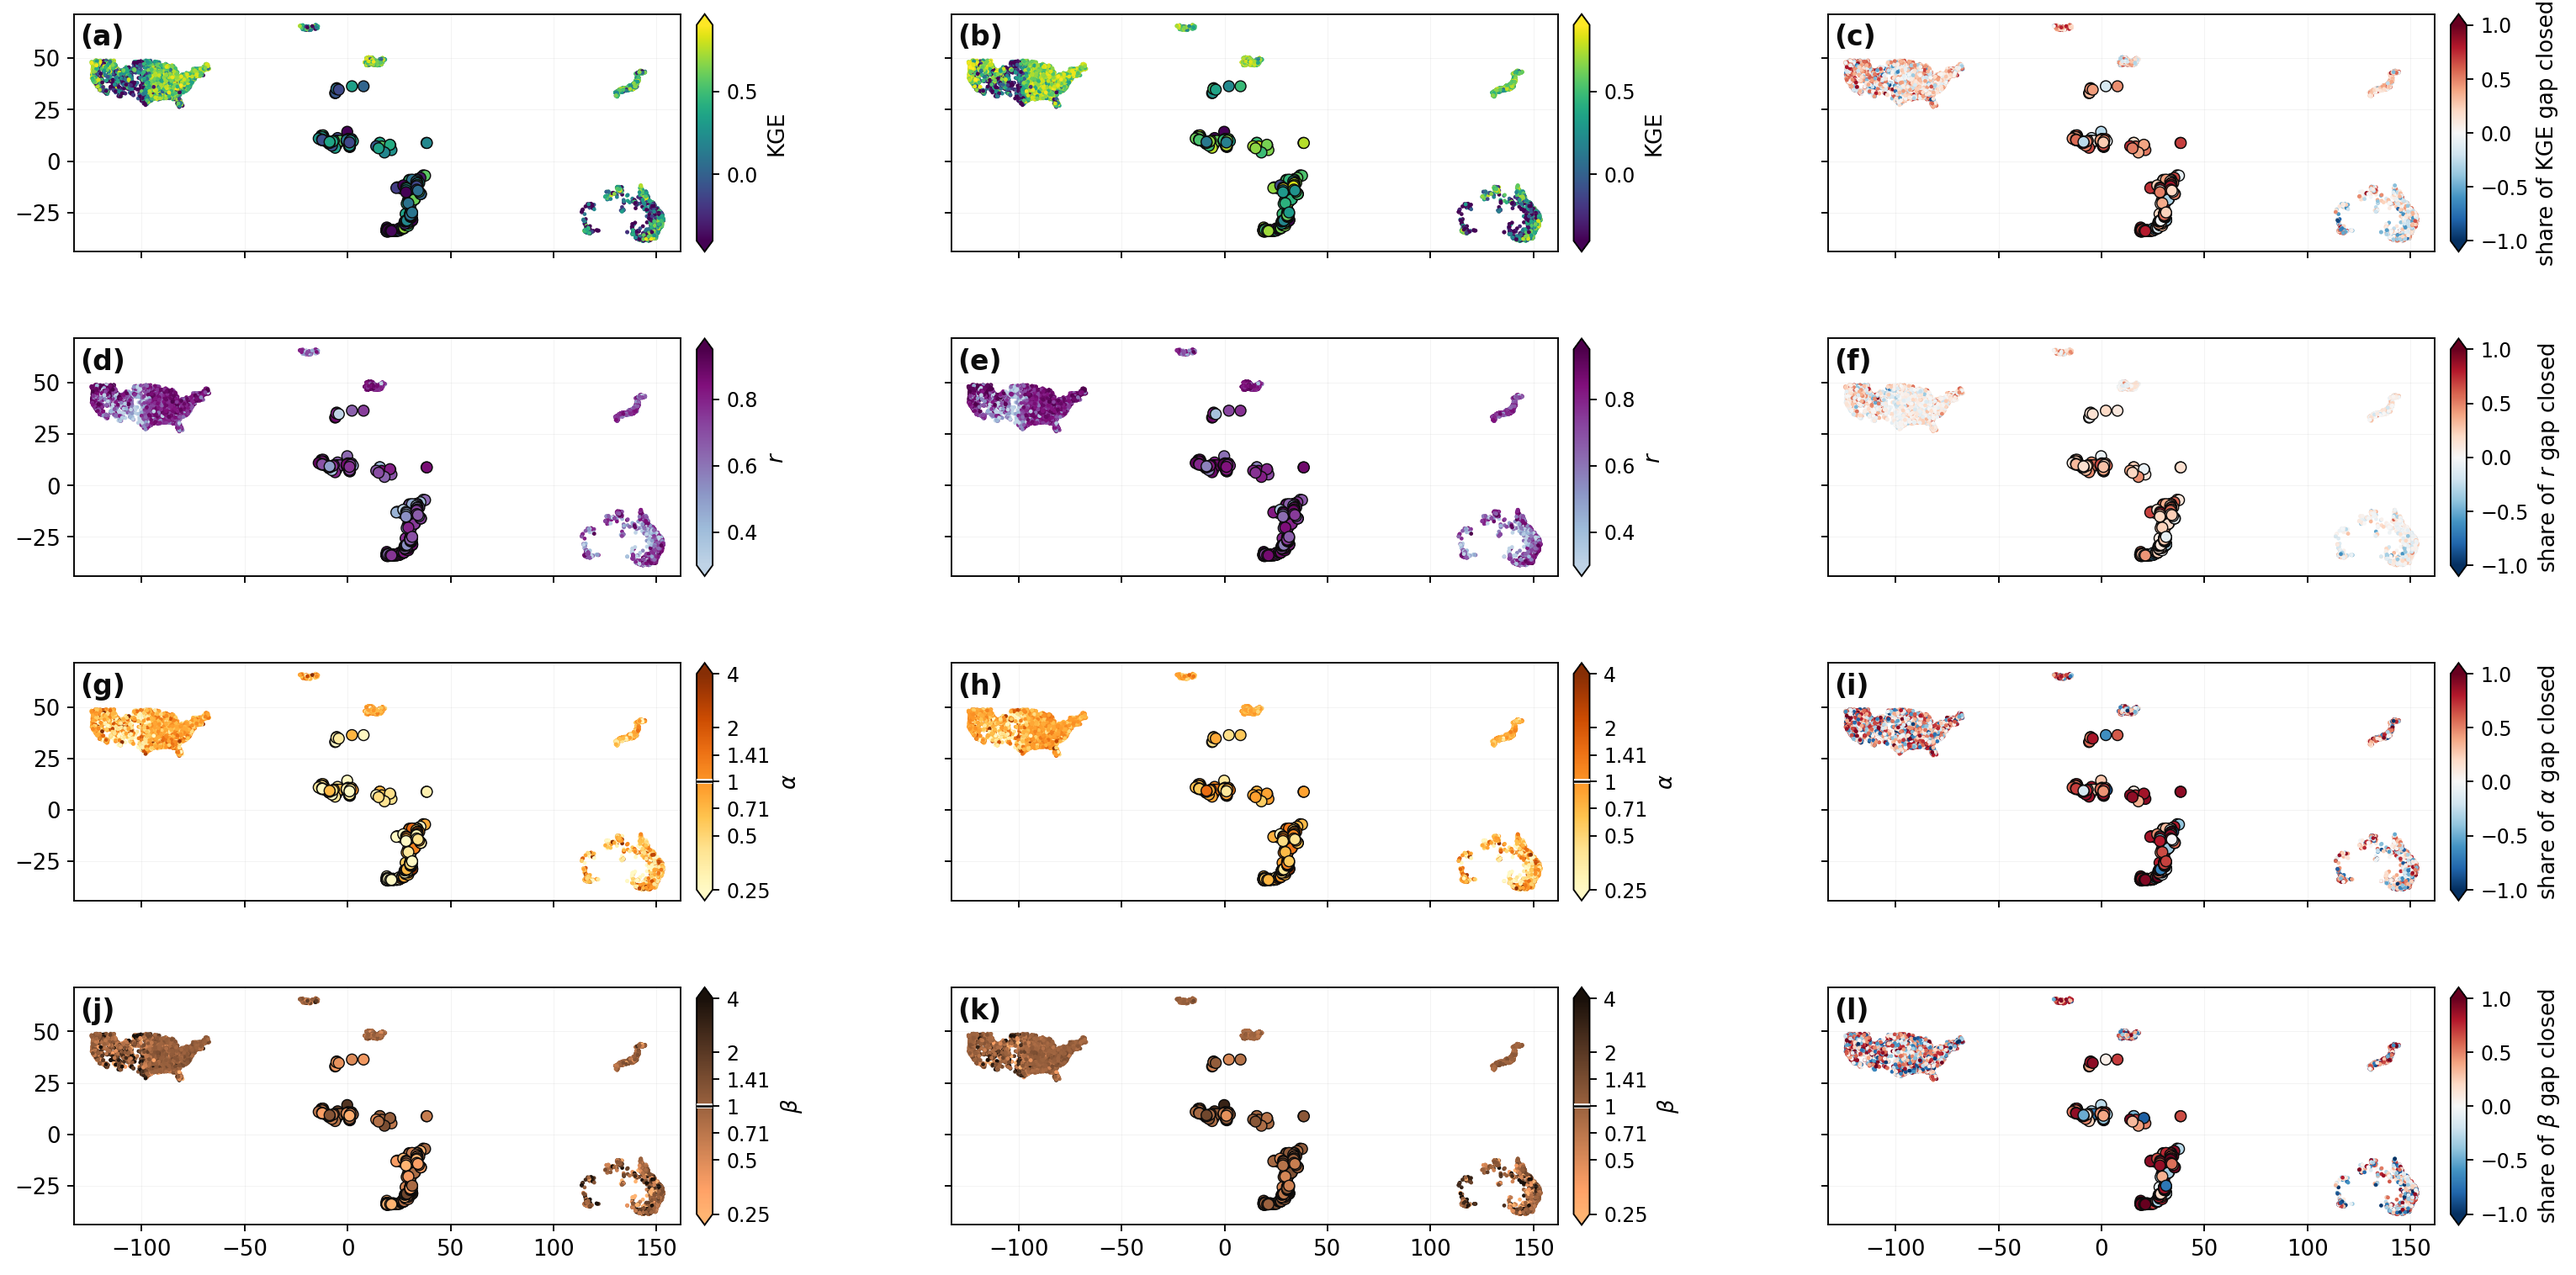
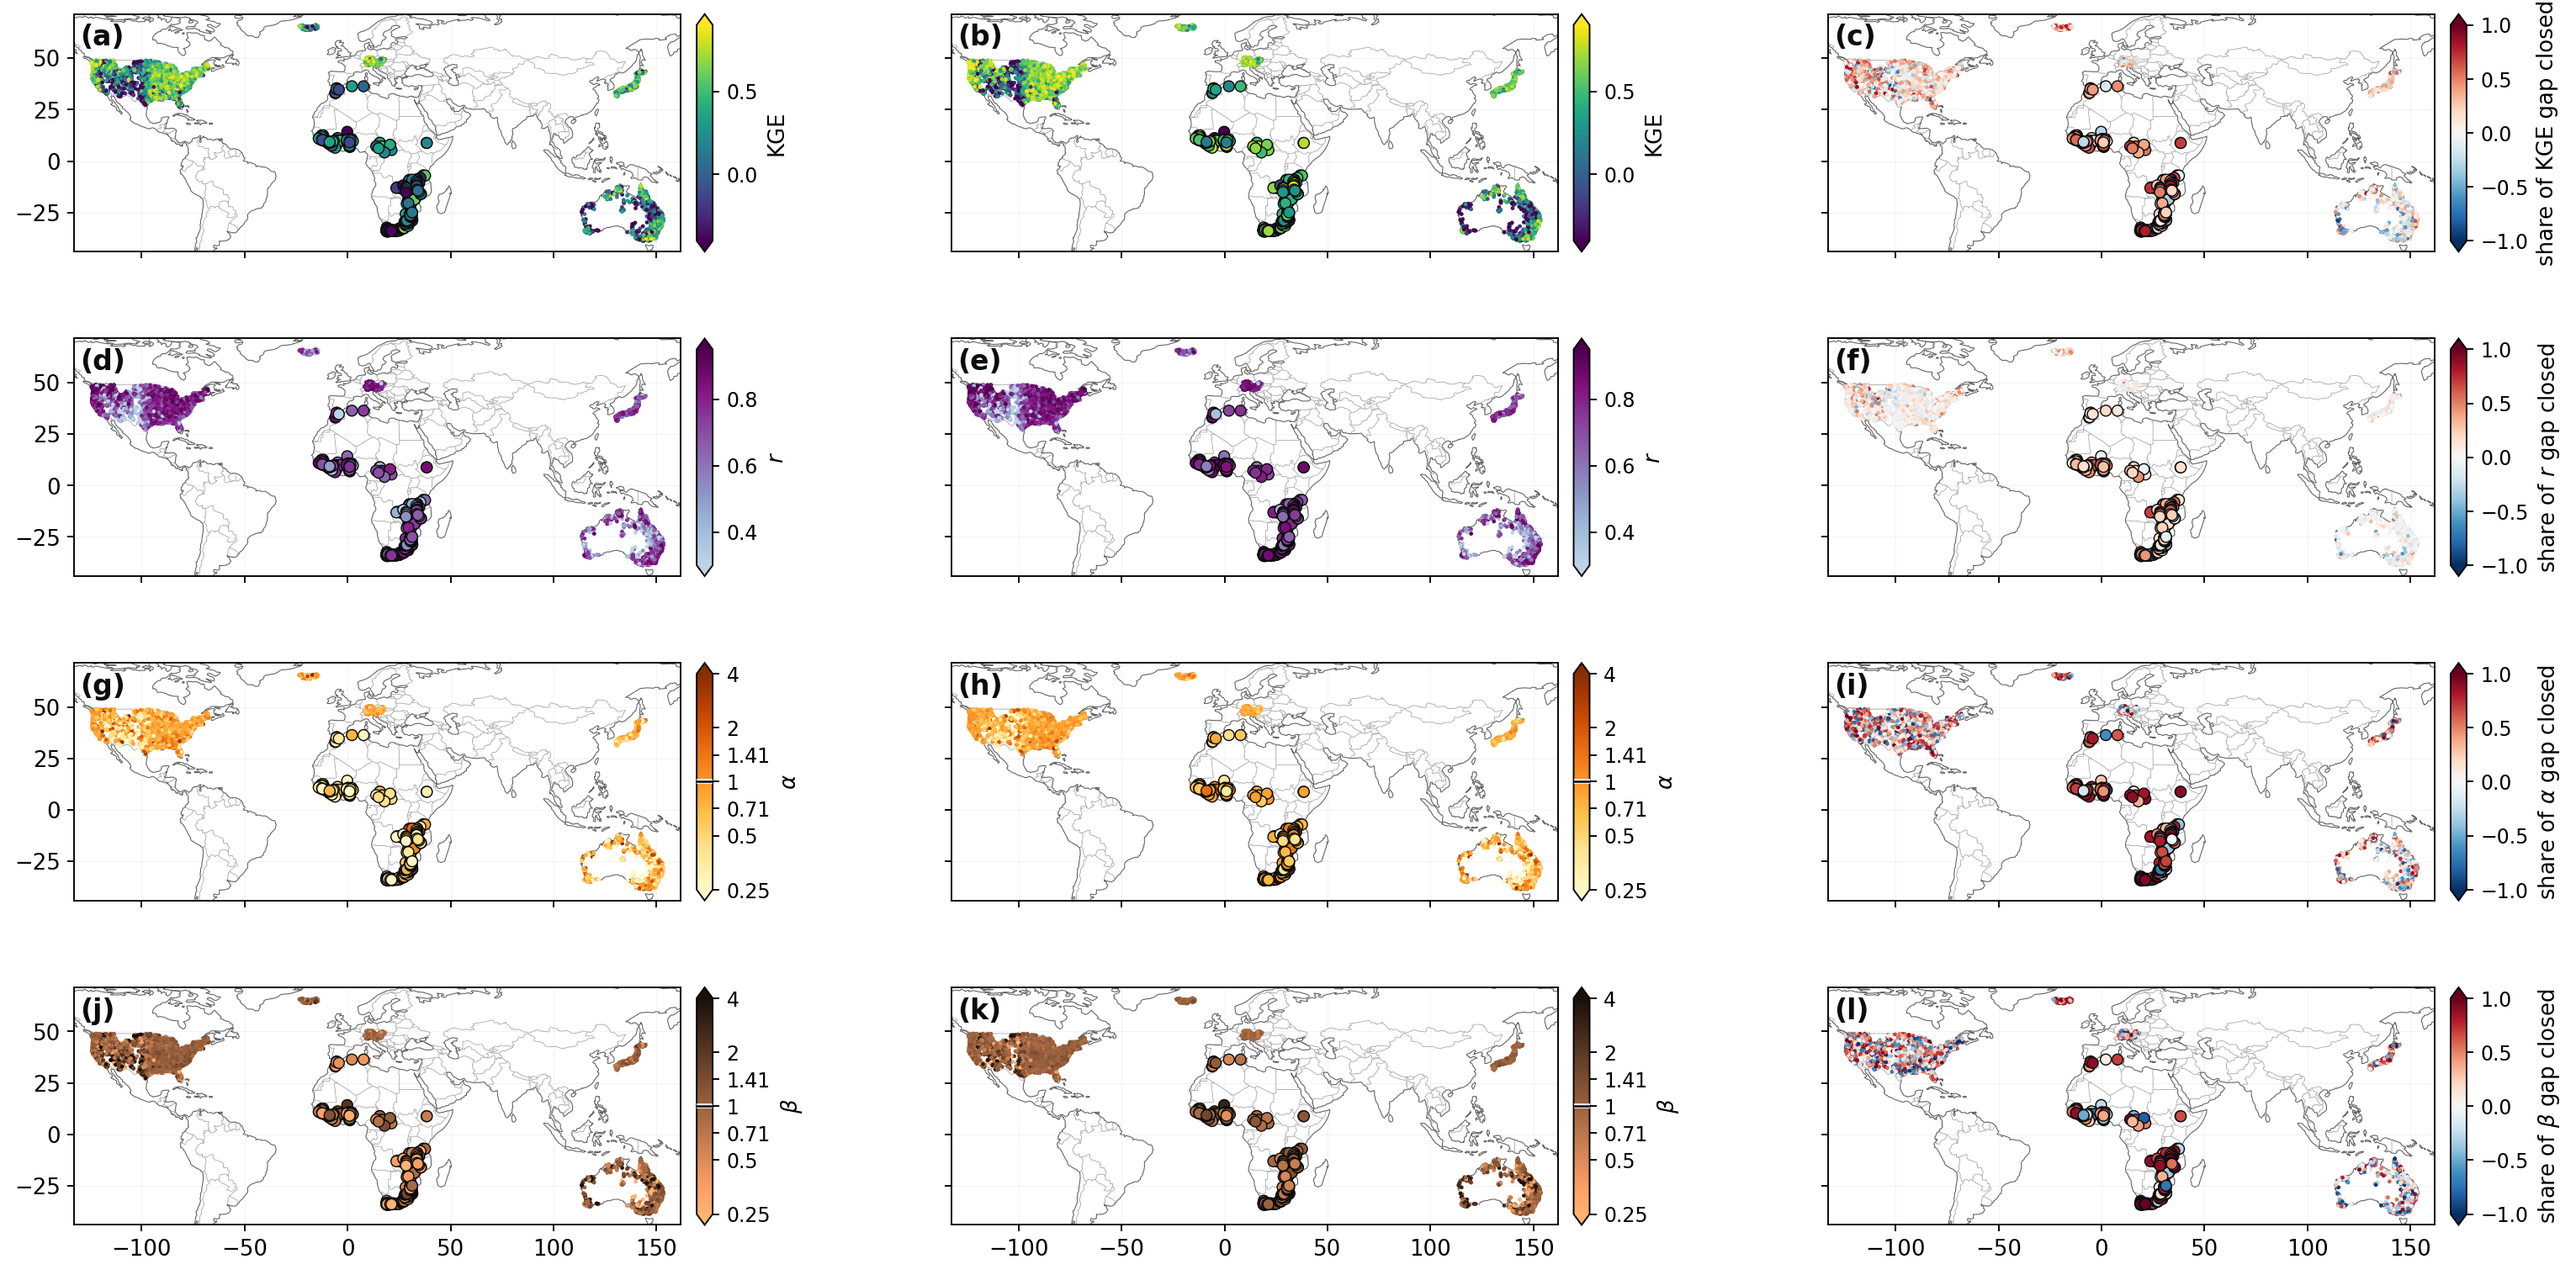
Draw coastlines and national borders under the global map
Twelve panels of scattered dots with no land behind them left a reader unable to say which
country a gauge sits in, which matters for a figure whose argument is regional.

The geometries are read straight from cartopy's cached Natural Earth shapefiles with
geopandas, and plotted as ordinary lines on the existing Axes. No GeoAxes is introduced.
The panels already use a linear longitude and latitude axis, which is what PlateCarree
draws, so the geometries need no reprojection, and a GeoAxes would have replaced the axis
machinery that the twelve panels, their shared limits and their equal aspect rely on.

Resolution is 110m because that is what this machine has cached and the download path is
closed, which costs nothing here: the panels are roughly 8 cm wide for 280 degrees of
longitude, far coarser than 110m resolves.

Boundaries sit at zorder 1, below the gauges at 2 and the African basins at 4, so no line
ever hides a value. Coastlines are darker than internal borders, since the land and sea
edge is what a reader uses to locate a point while a national border is context.

diff --git a/reports/latex/PhaseI_report.tex b/reports/latex/PhaseI_report.tex
@@ -19,7 +19,7 @@
 \title{Global hourly streamflow under daily-only supervision\\[0.3em]
   \large Phase I}
 \author{Weikang Kong}
-\date{2026-09-02}
+\date{2026-09-04}
 
 \begin{document}
 \maketitle
@@ -232,7 +232,7 @@ Figure~\ref{fig:map} puts every gauge on the map, before and after, together wit
 \begin{figure}[htbp]
   \centering
   \includegraphics[width=\linewidth]{fig09_global_map.png}
-  \caption{Columns are M0, M1 and their difference; rows are KGE and its three components, with the first two columns of a row sharing one scale. Small dots are the target gauges, scored against hourly observations, where Phase~I's premise is simulated; large outlined dots are the African basins, scored against daily observations, where it is genuine. The two are never pooled into one median because the observation each score rests on differs. $\alpha$ and $\beta$ use a log scale, so halving and doubling the observed value sit equally far apart. Their ideal value of 1 is marked by a line on the colourbar, since a sequential scale gives it no colour of its own. Each of the four quantities has its own ramp, because they do not share a scale and a shared ramp would let the same colour mean different things by row: $r$ is linear with its ideal at the top, while $\alpha$ and $\beta$ are logarithmic with their ideal at 1 in the middle, marked by a line. Those last two keep identical ranges and ticks, so the fact that they are directly comparable stays readable from the axis. The ramps were checked for separability rather than chosen by eye, at a minimum pairwise CIELAB distance of 18.4. All colourbar ends are pointed and each point is earned, since values lie beyond every one of them. The upper bound for $r$ is 0.95 rather than 1.0 for that reason, 1.0 being the ceiling of a correlation. The third column shows the share of each gauge's own gap that fine-tuning closes, defined as the reduction in its distance from the ideal divided by the larger of the distances before and after. That quantity is unitless and bounded in $[-1, 1]$, where $+1$ closes the whole gap and $0$ changes nothing, so one diverging scale serves all four rows and a colour can be compared between them. The raw differences cannot be shown this way, since they span eightfold between rows, from $\pm 0.085$ in $r$ to $\pm 0.70$ in $\beta$. Longitude is labelled on the bottom row and latitude on the left column only, since all twelve panels share one window. Panels: (a) KGE at M0, gauges 0.527, basins 0.114; (b) at M1, 0.626 and 0.576; (c) the difference, median +0.062 and +0.409.\ (d) $r$ at M0, gauges 0.800, basins 0.706; (e) at M1, 0.815 and 0.799; (f) the difference, median +0.005 and +0.080.\ (g) $\alpha$ at M0, gauges 0.808, basins 0.440; (h) at M1, 0.845 and 0.830; (i) the difference, median +0.037 and +0.333.\ (j) $\beta$ at M0, gauges 1.020, basins 0.475; (k) at M1, 0.995 and 0.953; (l) the difference, median -0.019 and +0.455. In the difference column the sign is the verdict for KGE and $r$, where larger is better, but not for $\alpha$ and $\beta$, whose ideal is 1.0: an increase helps a gauge below it and hurts one above it.}
+  \caption{Columns are M0, M1 and their difference; rows are KGE and its three components, with the first two columns of a row sharing one scale. Small dots are the target gauges, scored against hourly observations, where Phase~I's premise is simulated; large outlined dots are the African basins, scored against daily observations, where it is genuine. The two are never pooled into one median because the observation each score rests on differs. $\alpha$ and $\beta$ use a log scale, so halving and doubling the observed value sit equally far apart. Their ideal value of 1 is marked by a line on the colourbar, since a sequential scale gives it no colour of its own. Each of the four quantities has its own ramp, because they do not share a scale and a shared ramp would let the same colour mean different things by row: $r$ is linear with its ideal at the top, while $\alpha$ and $\beta$ are logarithmic with their ideal at 1 in the middle, marked by a line. Those last two keep identical ranges and ticks, so the fact that they are directly comparable stays readable from the axis. The ramps were checked for separability rather than chosen by eye, at a minimum pairwise CIELAB distance of 18.4. All colourbar ends are pointed and each point is earned, since values lie beyond every one of them. The upper bound for $r$ is 0.95 rather than 1.0 for that reason, 1.0 being the ceiling of a correlation. The third column shows the share of each gauge's own gap that fine-tuning closes, defined as the reduction in its distance from the ideal divided by the larger of the distances before and after. That quantity is unitless and bounded in $[-1, 1]$, where $+1$ closes the whole gap and $0$ changes nothing, so one diverging scale serves all four rows and a colour can be compared between them. The raw differences cannot be shown this way, since they span eightfold between rows, from $\pm 0.085$ in $r$ to $\pm 0.70$ in $\beta$. Coastlines and national borders are drawn under the data at 110m resolution, dark for the coast and light for internal borders, so a reader can place a gauge without a boundary ever hiding its value. Longitude is labelled on the bottom row and latitude on the left column only, since all twelve panels share one window. Panels: (a) KGE at M0, gauges 0.527, basins 0.114; (b) at M1, 0.626 and 0.576; (c) the difference, median +0.062 and +0.409.\ (d) $r$ at M0, gauges 0.800, basins 0.706; (e) at M1, 0.815 and 0.799; (f) the difference, median +0.005 and +0.080.\ (g) $\alpha$ at M0, gauges 0.808, basins 0.440; (h) at M1, 0.845 and 0.830; (i) the difference, median +0.037 and +0.333.\ (j) $\beta$ at M0, gauges 1.020, basins 0.475; (k) at M1, 0.995 and 0.953; (l) the difference, median -0.019 and +0.455. In the difference column the sign is the verdict for KGE and $r$, where larger is better, but not for $\alpha$ and $\beta$, whose ideal is 1.0: an increase helps a gauge below it and hurts one above it.}
   \label{fig:map}
 \end{figure}
 

diff --git a/scripts/global_map.py b/scripts/global_map.py
@@ -77,6 +77,55 @@ XLIM = (-180.0, 180.0)
 YLIM = (-60.0, 80.0)
 
 
+_BORDER_CACHE: dict[str, object] = {}
+
+
+def _borders():
+    """Country boundaries and coastlines as plain line geometries, loaded once.
+
+    Read straight from cartopy's cached Natural Earth shapefiles with geopandas, rather
+    than through a cartopy GeoAxes. The panels already use a linear longitude and latitude
+    axis, which is what PlateCarree draws, so the geometries need no reprojection and the
+    figure keeps its ordinary Axes. Introducing a GeoAxes here would replace the axis
+    machinery the twelve panels, their shared limits and their equal aspect already rely on.
+
+    The 110m resolution is the one cached on this machine and the download path is closed,
+    which is no loss at this size: the panels are about 8 cm wide for 280 degrees of
+    longitude, far coarser than 110m.
+    """
+    if not _BORDER_CACHE:
+        import geopandas as gpd
+        root = Path.home() / ".local/share/cartopy/shapefiles/natural_earth/physical"
+        cultural = Path.home() / ".local/share/cartopy/shapefiles/natural_earth/cultural"
+        found = {}
+        for label, stem, folder in (
+            ("coast", "ne_110m_coastline", root),
+            ("country", "ne_110m_admin_0_boundary_lines_land", cultural),
+        ):
+            hits = sorted(Path.home().glob(
+                f".local/share/cartopy/shapefiles/**/{stem}.shp"))
+            if not hits:
+                raise SystemExit(
+                    f"{stem}.shp is not in the cartopy cache and this machine cannot "
+                    "download it. Run the figure where the cache is populated."
+                )
+            found[label] = gpd.read_file(hits[0]).geometry
+        _BORDER_CACHE.update(found)
+    return _BORDER_CACHE
+
+
+def draw_borders(ax):
+    """Coastlines and country borders under the data.
+
+    Drawn at zorder 1, below the gauges at 2 and the African basins at 4, so a boundary
+    never hides a value. Coastlines are darker than internal borders because the land and
+    sea edge is what a reader uses to place a point, while a national border is context.
+    """
+    b = _borders()
+    b["coast"].plot(ax=ax, color="#5f5f5f", linewidth=0.45, zorder=1)
+    b["country"].plot(ax=ax, color="#9a9a9a", linewidth=0.30, zorder=1)
+
+
 def panel(ax, lon, lat, values, title, cmap, norm, extend="neither", seed=0,
           overlay=None):
     """Draw one map and return its mappable, WITHOUT a colorbar.
@@ -90,10 +139,11 @@ def panel(ax, lon, lat, values, title, cmap, norm, extend="neither", seed=0,
     # density that silently repaints whole regions in the tail colour: an earlier
     # version showed the gain panel as mostly deep red when the median gain is +0.026,
     # and alpha as mostly deep purple when its median is 0.854.
+    draw_borders(ax)
     order = np.random.default_rng(seed).permutation(len(values))
     handle = ax.scatter(
         lon[order], lat[order], c=values[order], s=4, cmap=cmap, norm=norm,
-        linewidths=0, rasterized=True,
+        linewidths=0, rasterized=True, zorder=2,
     )
     if overlay is not None:
         # African basins, drawn LARGER and with a dark edge. 282 of them against 8,843

diff --git a/scripts/build_latex.py b/scripts/build_latex.py
@@ -180,6 +180,9 @@ def map_caption(d: dict) -> str:
         "diverging scale serves all four rows and a colour can be compared between them. "
         "The raw differences cannot be shown this way, since they span eightfold between "
         r"rows, from $\pm 0.085$ in $r$ to $\pm 0.70$ in $\beta$. "
+        "Coastlines and national borders are drawn under the data at 110m resolution, "
+        "dark for the coast and light for internal borders, so a reader can place a "
+        "gauge without a boundary ever hiding its value. "
         "Longitude is labelled on the bottom row and latitude on the left column only, since "
         "all twelve panels share one window. Panels: " + ".\\ ".join(parts) + ". In the "
         "difference column the sign is the verdict for KGE and $r$, where larger is better, "
